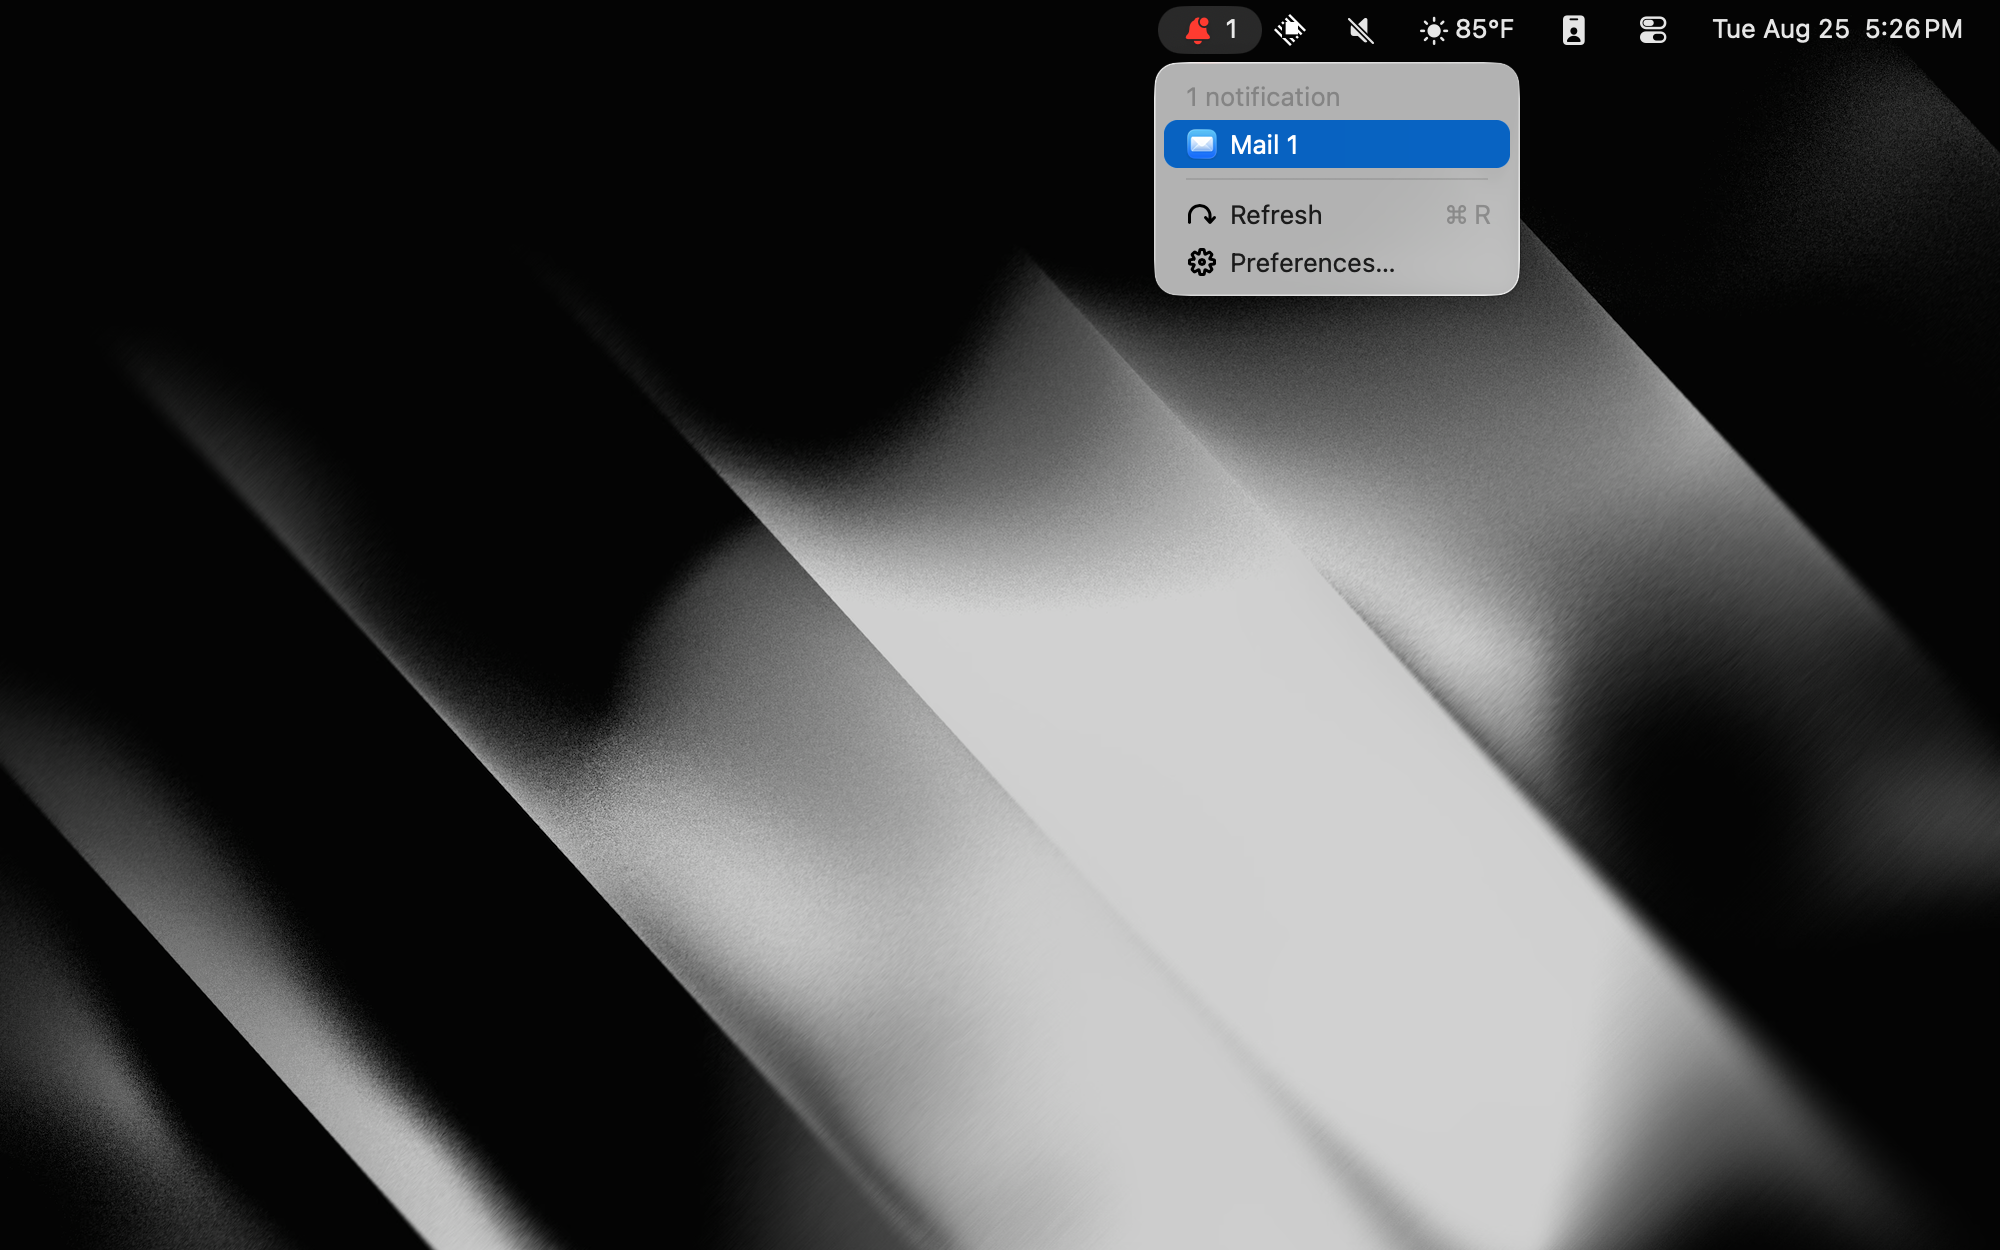
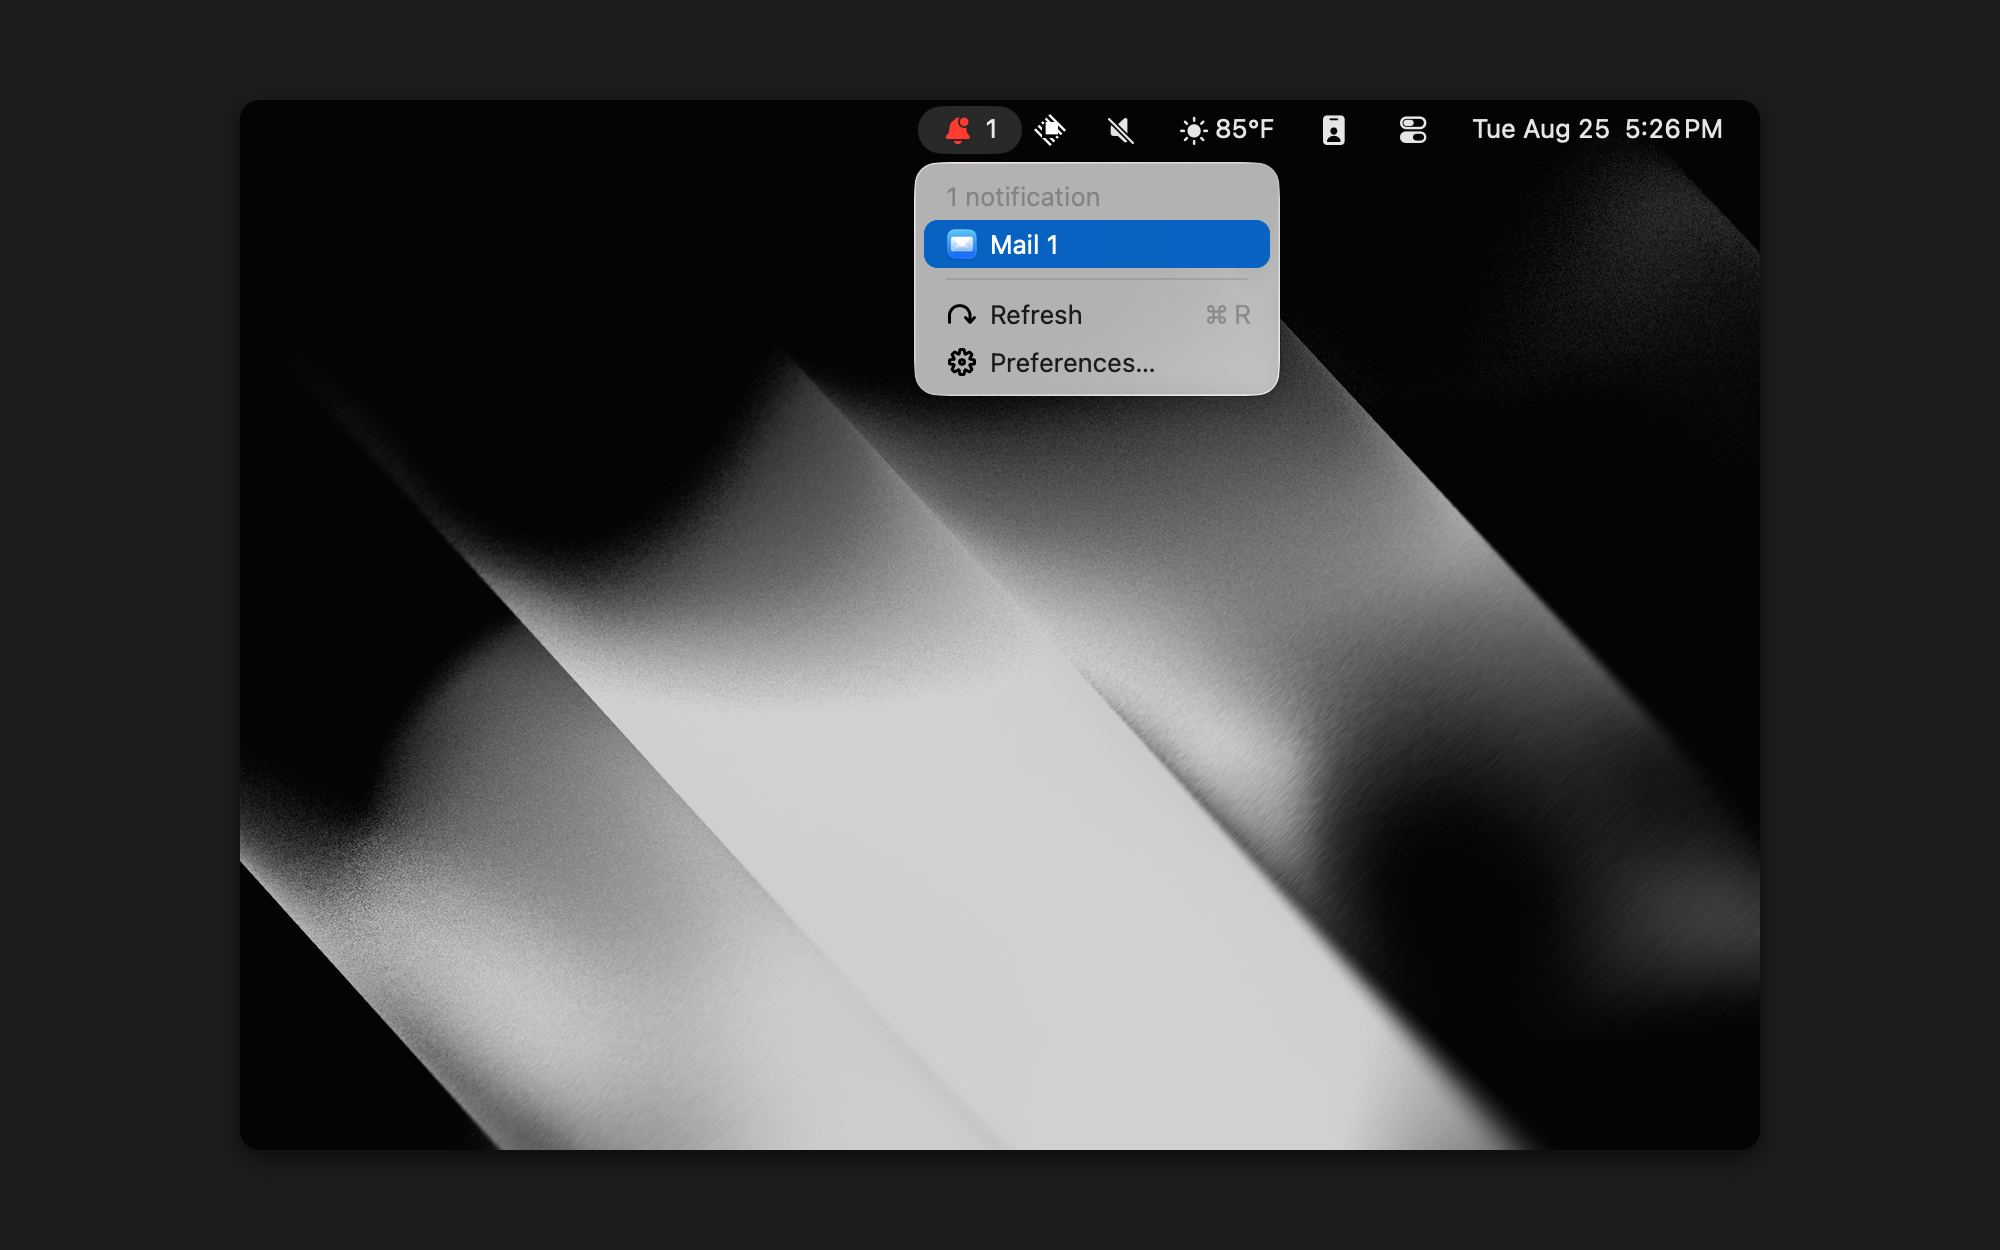
Pull contributions

diff --git a/src/show-dock-badges.tsx b/src/show-dock-badges.tsx
@@ -11,14 +11,7 @@ import {
   openCommandPreferences,
 } from "@raycast/api";
 import { useCachedPromise } from "@raycast/utils";
-import { AccessibilityError, DockTile, readDockTiles, readSystemDarkMode } from "./dock";
-
-interface Preferences {
-  symbol: "circle" | "bell" | "app";
-  symbolStyle: "outline" | "filled";
-  showCount: boolean;
-  hideWhenClear: boolean;
-}
+import { AccessibilityError, DockTile, clickDockTile, readDockTiles, readSystemDarkMode } from "./dock";
 
 interface DockApp {
   tile: DockTile;
@@ -45,7 +38,10 @@ const NON_APP_TILES = new Set(["Downloads", "Trash", "Applications", "Documents"
  * Menu bar glyph for the chosen symbol and style. Circle uses Raycast's built-in icons; Bell and App use
  * the SF Symbol SVGs in assets/icons ({bell,app}[-badge][-fill].svg). All are tinted at render time.
  */
-function iconSource({ symbol = "circle", symbolStyle = "filled" }: Preferences, badged: boolean): Image.Source {
+function iconSource(
+  { symbol = "circle", symbolStyle = "filled" }: Preferences.ShowDockBadges,
+  badged: boolean,
+): Image.Source {
   const filled = symbolStyle === "filled";
   if (symbol === "circle") return filled ? Icon.CircleFilled : Icon.Circle;
   return `icons/${symbol}${badged ? "-badge" : ""}${filled ? "-fill" : ""}.svg`;
@@ -62,7 +58,7 @@ function resolveApps(tiles: DockTile[], applications: Application[]): DockApp[] 
 }
 
 export default function Command() {
-  const preferences = getPreferenceValues<Preferences>();
+  const preferences = getPreferenceValues<Preferences.ShowDockBadges>();
 
   const { data, isLoading, error, revalidate } = useCachedPromise(readDockTiles, [], {
     keepPreviousData: true,
@@ -133,6 +129,15 @@ export default function Command() {
   );
 }
 
+/** Open the matched app; if that fails (unmatched or unusual bundle), click its Dock tile instead. */
+async function openDockApp({ tile, application }: DockApp): Promise<void> {
+  try {
+    await open(application?.path ?? `/Applications/${tile.name}.app`);
+  } catch {
+    await clickDockTile(tile.name);
+  }
+}
+
 function AppItem({ app, darkMode }: { app: DockApp; darkMode: boolean }) {
   const { tile, application } = app;
   return (
@@ -140,7 +145,7 @@ function AppItem({ app, darkMode }: { app: DockApp; darkMode: boolean }) {
       title={tile.name}
       subtitle={tile.badge}
       icon={application ? { fileIcon: application.path } : menuIcon(Icon.AppWindow, darkMode)}
-      onAction={() => open(application?.path ?? `/Applications/${tile.name}.app`)}
+      onAction={() => openDockApp(app)}
     />
   );
 }

diff --git a/src/dock.ts b/src/dock.ts
@@ -88,3 +88,12 @@ export async function readSystemDarkMode(): Promise<boolean> {
     return false;
   }
 }
+
+/** Clicks a Dock tile via Accessibility, activating whatever it represents. */
+export async function clickDockTile(name: string): Promise<void> {
+  const escaped = name.replace(/\\/g, "\\\\").replace(/"/g, '\\"');
+  await runAppleScript(
+    `tell application "System Events" to tell process "Dock" to click UI element "${escaped}" of list 1`,
+    { timeout: 5000 },
+  );
+}

diff --git a/README.md b/README.md
@@ -30,7 +30,7 @@ will say so and take you straight to the setting.
 
 ## Notes
 
-- Badge counts refresh every 30 seconds in the background.
+- Badge counts refresh every 10 seconds in the background.
 - Only apps that appear in the Dock (pinned or currently running) are tracked.
 - If a preference change doesn't show up after the next refresh, toggle *Background Refresh* off and on
   in the command's settings.

diff --git a/CHANGELOG.md b/CHANGELOG.md
@@ -6,4 +6,4 @@
 - Dropdown lists the apps that currently have badges; click one to open it
 - Circle, Bell or App symbol in Filled or Outline style; monochrome when idle, red when notifications are waiting
 - Options to show the total count and to hide the item while no app has a badge
-- Background refresh every 30 seconds
+- Background refresh every 10 seconds
